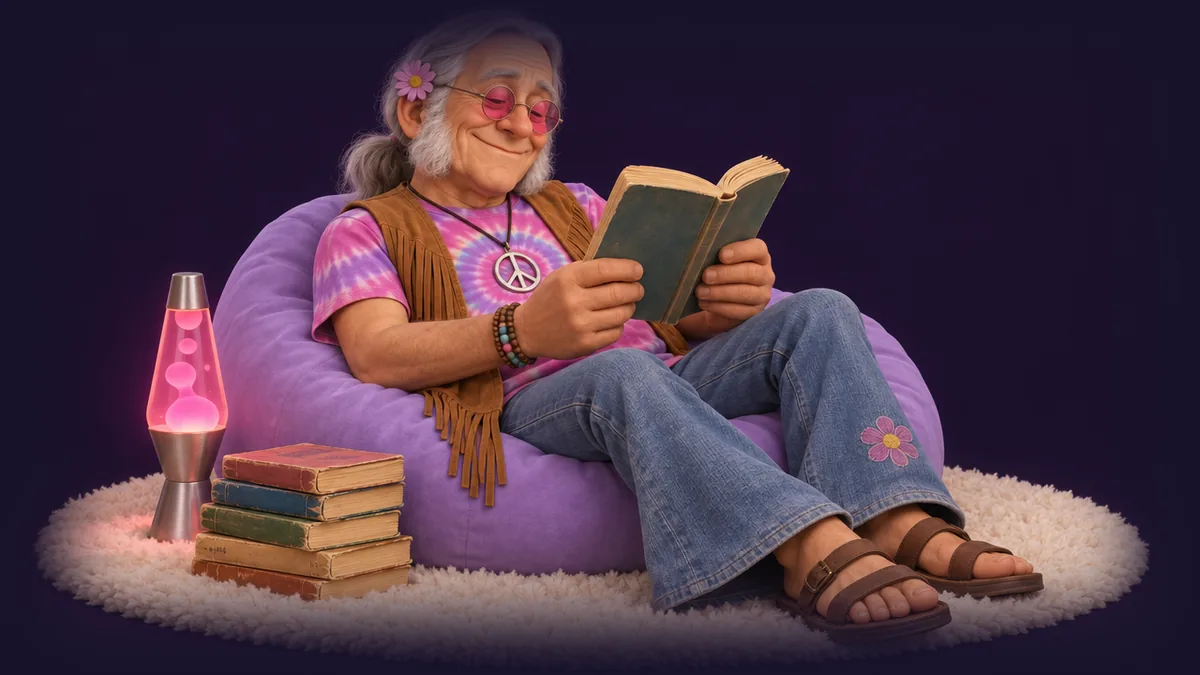
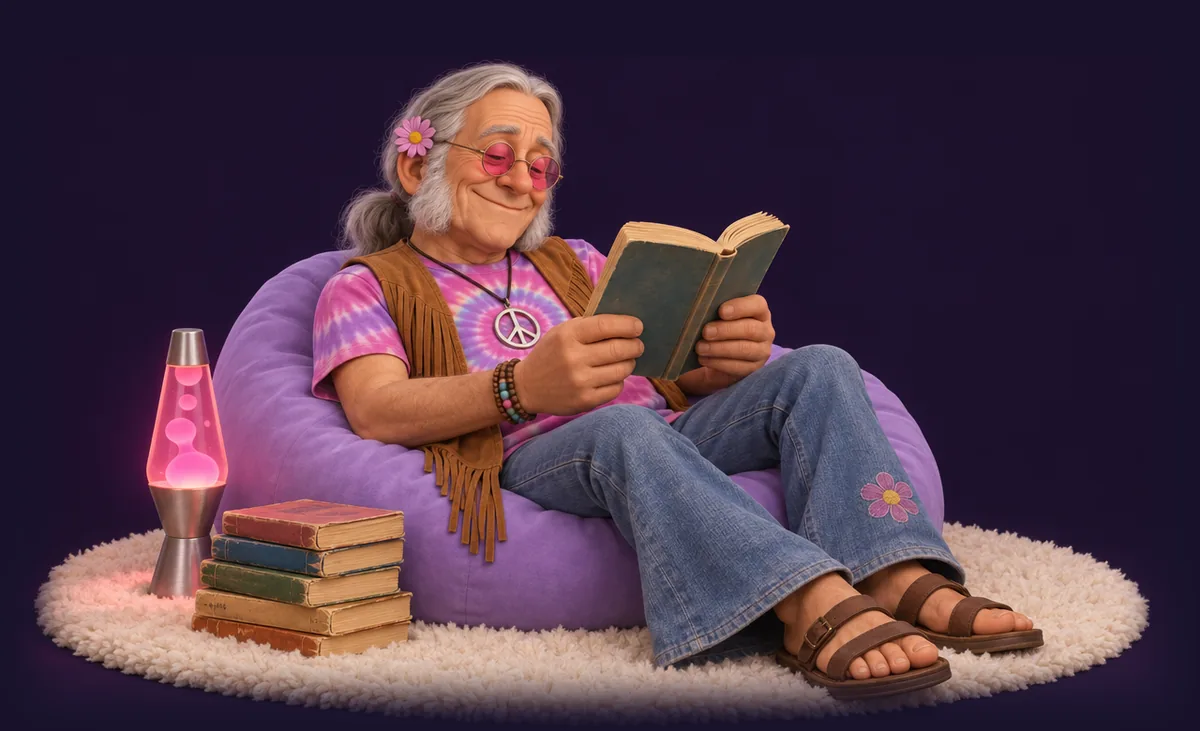
Larry

diff --git a/Character_Larry.html b/Character_Larry.html
@@ -47,7 +47,7 @@ j=d.createElement(s),dl=l!='dataLayer'?'&l='+l:'';j.async=true;j.src=
 <body>
 <noscript><iframe src="https://www.googletagmanager.com/ns.html?id=GTM-WRD3V23L" height="0" width="0" style="display:none;visibility:hidden"></iframe></noscript>
 <main>
-  <img class="curator" src="/assets/curators/Larry.webp" width="1200" height="675" alt="Larry Lit Lover, a Poof Books curator, reading in a beanbag">
+  <img class="curator" src="/assets/curators/Larry.webp" width="1200" height="731" alt="Larry Lit Lover, a Poof Books curator, reading in a beanbag">
   <header class="intro">
     <img class="logo" src="/assets/logo.svg" width="662" height="170" alt="Poof Books">
     <h1>Luminous Literature</h1>
